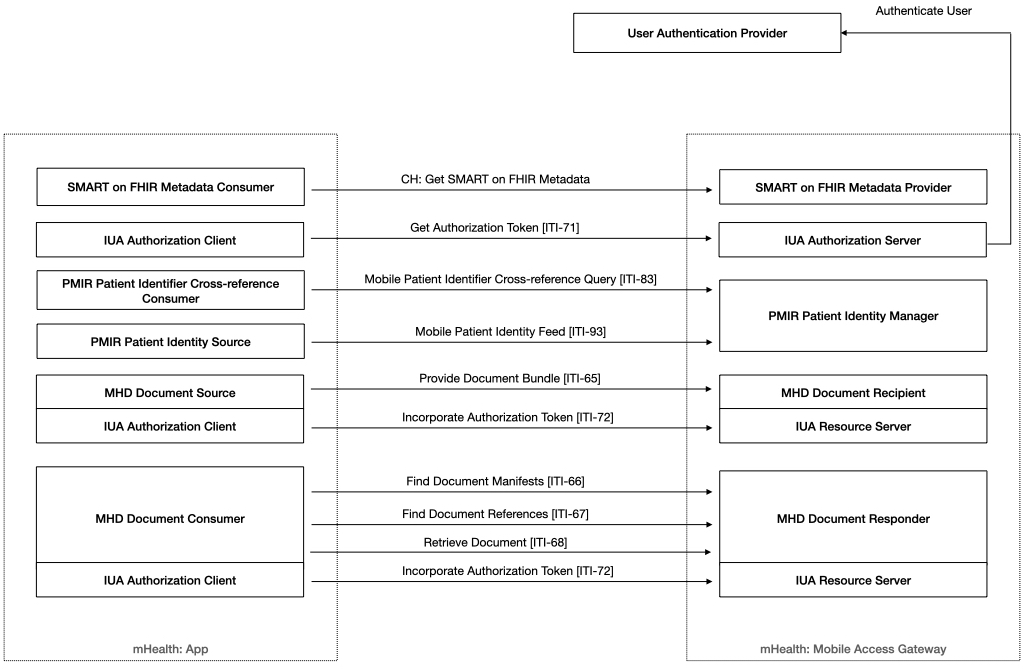
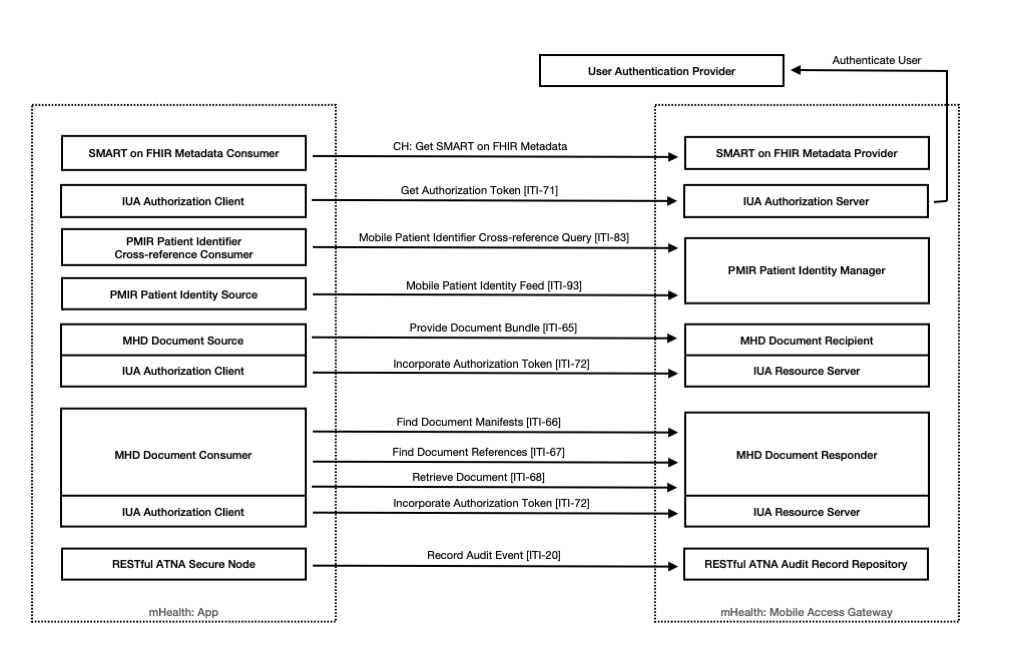
update overview

diff --git a/input/pagecontent/index.md b/input/pagecontent/index.md
@@ -20,10 +20,10 @@ The key words *MUST*, *MUST NOT*, *REQUIRED*, *SHALL*, *SHALL NOT*, *SHOULD*, *S
 The extensions, restrictions and translations specified apply to the following IHE IT Infrastructure (ITI) Integration profiles:
 
 * [SMART on FHIR](http://www.hl7.org/fhir/smart-app-launch/)
-* [IUA](https://www.ihe.net/uploadedFiles/Documents/ITI/IHE_ITI_Suppl_IUA.pdf)
+* [IUA](https://profiles.ihe.net/ITI/IUA/index.html)
 * [PMIR](https://www.ihe.net/uploadedFiles/Documents/ITI/IHE_ITI_Suppl_PMIR.pdf)
 * [MHD](https://www.ihe.net/uploadedFiles/Documents/ITI/IHE_ITI_Suppl_MHD.pdf)
-* [RESTFul ATNA](https://www.ihe.net/uploadedFiles/Documents/ITI/IHE_ITI_Suppl_RESTful-ATNA.pdf)
+* [RESTful ATNA](https://www.ihe.net/uploadedFiles/Documents/ITI/IHE_ITI_Suppl_RESTful-ATNA.pdf)
 
 ### Overview
 
@@ -36,10 +36,11 @@ technologies (REST, OAuth, etc.) which are widely spread in the developer commun
 native applications and Web Applications as well, for example in primary systems.
 
 The scope of this extension covers the following use cases:
-1. User Authentication and authorization;
-2. Read documents from the EPR;
-3. Write documents to the EPR;
-4. Write logs to the EPR ATNA Audit Repository.
+1.	Client authentication and authorization; 
+2.	User Authentication; 
+3.	Read documents from the EPR;
+4.	Write documents to the EPR; 
+5.	Write logs to the EPR ATNA Audit Record Repository.   
 
 This extension covers two options:
 1. Generic mHealth option – This option adresses primary systems or mobile applications using the basic EPR flows but replace the XDS.b related and PIX V3 profiles with the FHIR based profiles;
